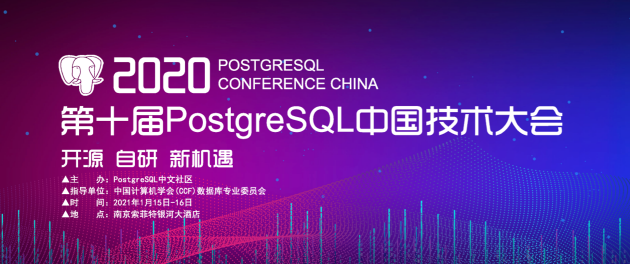
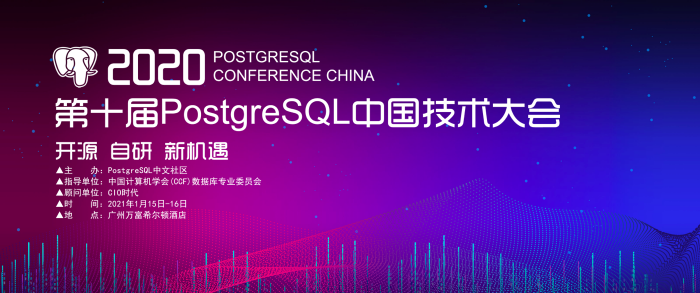
change the event place

diff --git a/content/en/events/2021-01-15/2021-01-15-PostgreSQL.md b/content/en/events/2021-01-15/2021-01-15-PostgreSQL.md
@@ -3,7 +3,7 @@ title = "第十届PostgreSQL中国技术大会"
 time = "2021/01/15-2021/01/16"
 tags = "会议"
 label = "线上线下"
-location = "南京"
+location = "广州"
 img = "/zh/events/2021-01-15/banner.png"
 img_mobile = '/zh/events/2021-01-15/banner.png'
 link = "http://pgconf2020.postgres.cn/schedule.html"

diff --git a/content/zh/events/2021-01-15/2021-01-15-PostgreSQL.md b/content/zh/events/2021-01-15/2021-01-15-PostgreSQL.md
@@ -3,7 +3,7 @@ title = "第十届PostgreSQL中国技术大会"
 time = "2021/01/15-2021/01/16"
 tags = "会议"
 label = "线上线下"
-location = "南京"
+location = "广州"
 img = "/zh/events/2021-01-15/banner.png"
 img_mobile = '/zh/events/2021-01-15/banner.png'
 link = "http://pgconf2020.postgres.cn/schedule.html"
